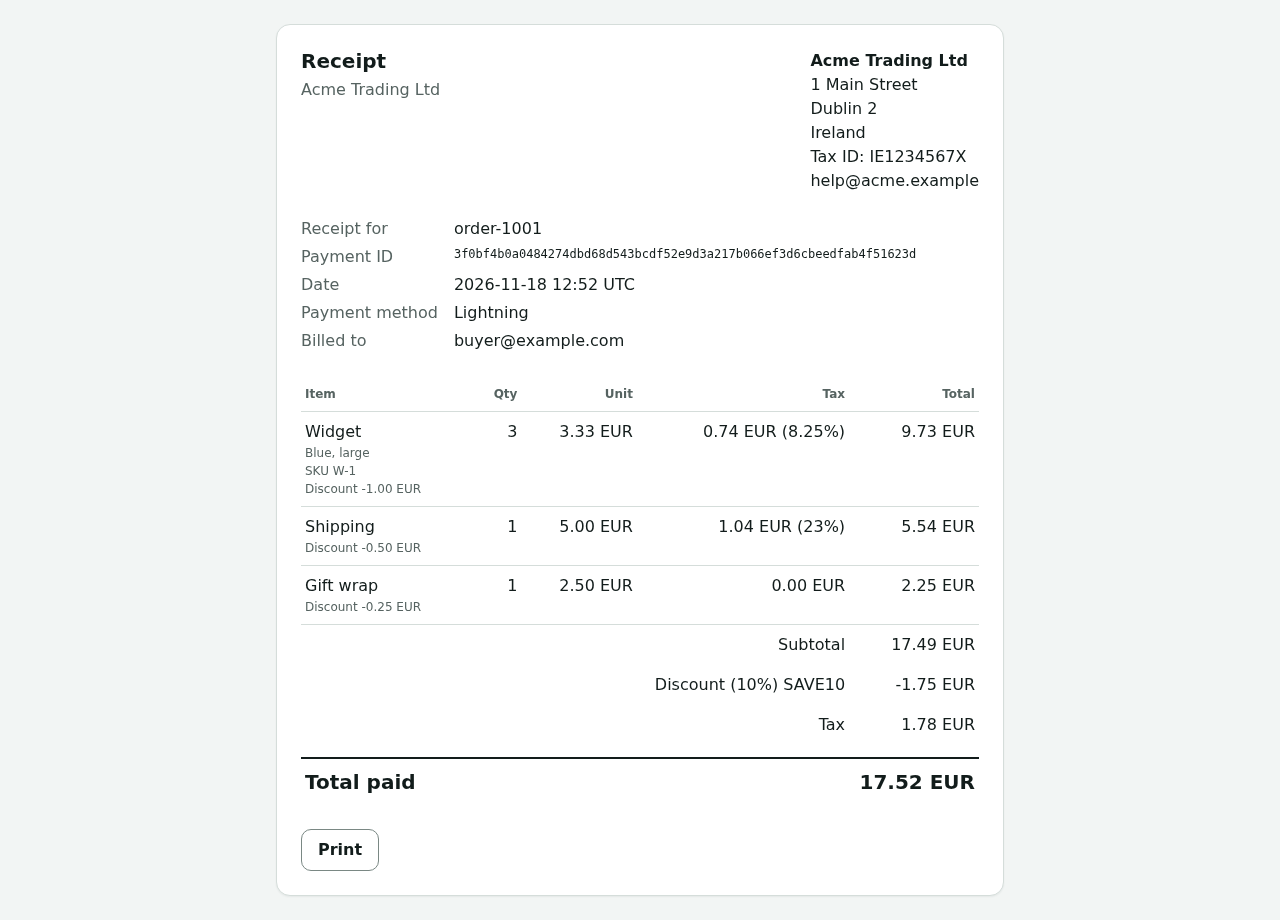
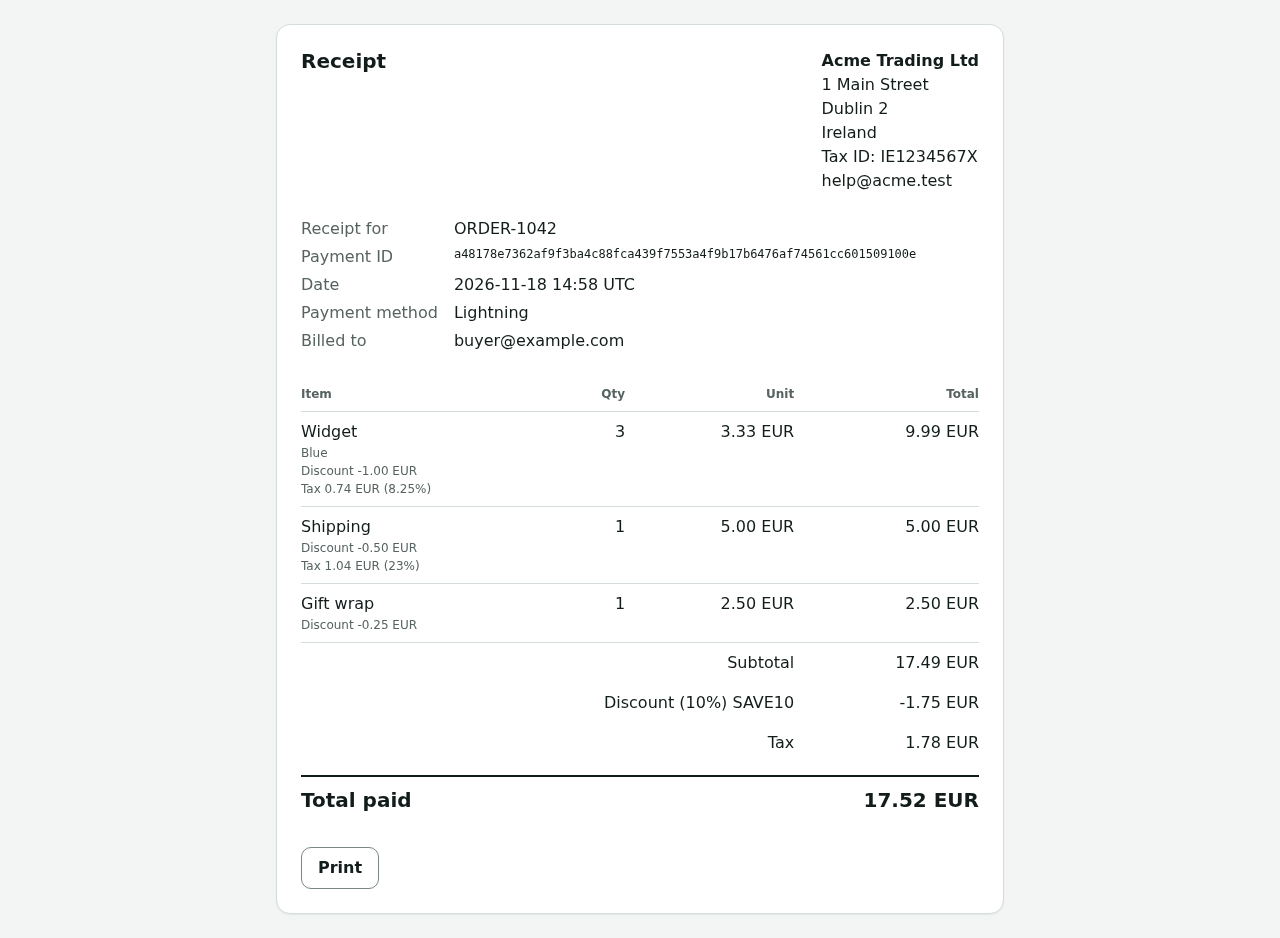
Receipt lines sum to subtotal, full width table, one seller name

diff --git a/web/receipt.css b/web/receipt.css
@@ -12,11 +12,14 @@ dl.meta { display: grid; grid-template-columns: max-content 1fr; gap: var(--spac
 dl.meta dt { color: var(--muted); }
 dl.meta dd { margin: 0; overflow-wrap: anywhere; }
 dl.meta dd.mono { font-family: var(--font-mono); font-size: var(--fs-sm); }
-.scroll { overflow-x: auto; }
+.scroll { overflow-x: auto; width: 100%; }
+.lines { width: 100%; table-layout: auto; }
 table { width: 100%; border-collapse: collapse; margin-bottom: var(--space-3); }
 th, td { text-align: left; padding: var(--space-2) var(--space-1); border-bottom: 1px solid var(--line); vertical-align: top; }
 th { color: var(--muted); font-size: var(--fs-sm); font-weight: 600; }
-th.num, td.num { text-align: right; }
+th.num, td.num { text-align: right; padding-left: var(--space-3); }
+th:first-child, td:first-child { padding-left: 0; }
+th:last-child, td:last-child { padding-right: 0; }
 .money { font-variant-numeric: tabular-nums; white-space: nowrap; }
 tfoot td { border-bottom: 0; }
 tr.total td { font-weight: 700; font-size: var(--fs-lg); border-top: 2px solid var(--text); border-bottom: 0; }
@@ -28,9 +31,11 @@ button:focus-visible { outline: 2px solid var(--focus); outline-offset: 2px; }
   .receipt { padding: var(--space-4); }
   dl.meta { grid-template-columns: 1fr; }
   dl.meta dd { margin-bottom: var(--space-2); }
-  .lines th:nth-child(3), .lines td:nth-child(3), .lines th:nth-child(4), .lines td:nth-child(4) { display: none; }
-  .lines tfoot td:first-child { width: 100%; }
+  th, td { padding-top: var(--space-2); padding-bottom: var(--space-2); }
+  th.num, td.num { padding-left: var(--space-2); }
+  .lines td:first-child, .lines th:first-child { padding-right: var(--space-2); }
 }
+@page { margin: 16mm; }
 @media print {
   :root { color-scheme: light; }
   body { background: #fff; color: black; }

diff --git a/src/api/receipt.rs b/src/api/receipt.rs
@@ -130,7 +130,7 @@ fn row(label: &str, value: &str) -> String {
 
 fn lines_table(b: &Breakdown, currency: &str) -> String {
     let mut out = String::from(
-        "<div class=\"scroll\"><table class=\"lines\"><thead><tr><th>Item</th><th class=\"num\">Qty</th><th class=\"num\">Unit</th><th class=\"num\">Tax</th><th class=\"num\">Total</th></tr></thead><tbody>",
+        "<div class=\"scroll\"><table class=\"lines\"><thead><tr><th>Item</th><th class=\"num\">Qty</th><th class=\"num\">Unit</th><th class=\"num\">Total</th></tr></thead><tbody>",
     );
     for l in &b.lines {
         let mut name = esc(&l.name);
@@ -146,23 +146,25 @@ fn lines_table(b: &Breakdown, currency: &str) -> String {
                 esc(&money(l.discount, currency))
             ));
         }
-        let tax = match l.tax_rate_bps {
-            Some(bps) => format!("{} ({})", money(l.tax, currency), percent(bps)),
-            None => money(l.tax, currency),
-        };
+        if l.tax > 0 {
+            let tax = match l.tax_rate_bps {
+                Some(bps) => format!("Tax {} ({})", money(l.tax, currency), percent(bps)),
+                None => format!("Tax {}", money(l.tax, currency)),
+            };
+            name.push_str(&format!("<span class=\"sub\">{}</span>", esc(&tax)));
+        }
         out.push_str(&format!(
-            "<tr><td>{}</td><td class=\"num money\">{}</td><td class=\"num money\">{}</td><td class=\"num money\">{}</td><td class=\"num money\">{}</td></tr>",
+            "<tr><td>{}</td><td class=\"num money\">{}</td><td class=\"num money\">{}</td><td class=\"num money\">{}</td></tr>",
             name,
             l.quantity,
             esc(&money(l.unit_amount, currency)),
-            esc(&tax),
-            esc(&money(l.total, currency)),
+            esc(&money(l.net, currency)),
         ));
     }
     out.push_str("</tbody><tfoot>");
     let foot = |label: String, value: String| {
         format!(
-            "<tr><td colspan=\"4\" class=\"num\">{}</td><td class=\"num money\">{}</td></tr>",
+            "<tr><td colspan=\"3\" class=\"num\">{}</td><td class=\"num money\">{}</td></tr>",
             esc(&label),
             esc(&value)
         )
@@ -249,9 +251,8 @@ pub fn render(p: &PaymentRow, tenant: &Tenant, method: Option<&str>) -> String {
     };
 
     format!(
-        "<!doctype html><html lang=\"en\"><head><meta charset=\"utf-8\"><meta name=\"viewport\" content=\"width=device-width, initial-scale=1\"><meta name=\"robots\" content=\"noindex\"><title>Receipt {}</title><link rel=\"stylesheet\" href=\"/assets/tokens.css\"><link rel=\"stylesheet\" href=\"/assets/receipt.css\"></head><body><main><div class=\"receipt\"><header><div><h1>Receipt</h1><div class=\"muted\">{}</div></div><div>{}</div></header><dl class=\"meta\">{}</dl>{}<div class=\"actions\"><button type=\"button\" id=\"print\">Print</button></div></div></main><script src=\"/assets/receipt.js\"></script></body></html>",
+        "<!doctype html><html lang=\"en\"><head><meta charset=\"utf-8\"><meta name=\"viewport\" content=\"width=device-width, initial-scale=1\"><meta name=\"robots\" content=\"noindex\"><title>Receipt {}</title><link rel=\"stylesheet\" href=\"/assets/tokens.css\"><link rel=\"stylesheet\" href=\"/assets/receipt.css\"></head><body><main><div class=\"receipt\"><header><div><h1>Receipt</h1></div><div>{}</div></header><dl class=\"meta\">{}</dl>{}<div class=\"actions\"><button type=\"button\" id=\"print\">Print</button></div></div></main><script src=\"/assets/receipt.js\"></script></body></html>",
         esc(&p.reference),
-        esc(&seller),
         seller_html,
         meta,
         body

diff --git a/tests/line_items.rs b/tests/line_items.rs
@@ -619,3 +619,82 @@ async fn openapi_documents_line_items_and_the_payment_view() {
         .ends_with("/Payment"));
     assert!(r.json["paths"].get("/receipt/{id}").is_none());
 }
+
+fn cents(text: &str) -> i64 {
+    let n = text.trim().trim_end_matches(" EUR").replace(',', "");
+    let (sign, n) = match n.strip_prefix('-') {
+        Some(rest) => (-1, rest.to_string()),
+        None => (1, n),
+    };
+    let (whole, frac) = n.split_once('.').unwrap();
+    sign * (whole.parse::<i64>().unwrap() * 100 + frac.parse::<i64>().unwrap())
+}
+
+fn last_cells(html: &str, from: &str, to: &str) -> Vec<String> {
+    let start = html.find(from).unwrap();
+    let section = &html[start..start + html[start..].find(to).unwrap()];
+    section
+        .split("<tr>")
+        .skip(1)
+        .map(|row| {
+            let cell = row.rsplit("<td class=\"num money\">").next().unwrap();
+            cell.split("</td>").next().unwrap().to_string()
+        })
+        .collect()
+}
+
+#[tokio::test]
+async fn receipt_line_totals_sum_to_the_subtotal() {
+    let h = harness().await;
+    let t = tenant(&h).await;
+    let fixture = json!({
+        "reference": "rcpt-sum",
+        "currency": "EUR",
+        "line_items": [
+            {"name": "Widget", "quantity": 3, "unit_amount": 333, "tax_rate": 8.25},
+            {"name": "Shipping", "unit_amount": 500, "tax_rate": 23},
+            {"name": "Gift wrap", "unit_amount": 250}
+        ],
+        "discount": {"percent": 10, "code": "SAVE10"}
+    });
+    let id = paid_payment(&h, &t, fixture).await;
+    let r = send(
+        &h.app,
+        "GET",
+        &format!("/receipt/{id}"),
+        None,
+        &[],
+        Value::Null,
+    )
+    .await;
+    let lines = last_cells(&r.text, "<tbody>", "</tbody>");
+    assert_eq!(lines.len(), 3);
+    let sum: i64 = lines.iter().map(|c| cents(c)).sum();
+    let foot = last_cells(&r.text, "<tfoot>", "</tfoot>");
+    assert_eq!(cents(&foot[0]), 1749, "{foot:?}");
+    assert_eq!(sum, cents(&foot[0]), "{lines:?} {foot:?}");
+    assert_eq!(cents(&foot[1]), -175);
+    assert_eq!(cents(&foot[2]), 178);
+    assert_eq!(cents(&foot[0]) + cents(&foot[1]) + cents(&foot[2]), 1752);
+}
+
+#[tokio::test]
+async fn receipt_names_the_seller_once_and_fills_the_card_width() {
+    let h = harness().await;
+    let t = tenant(&h).await;
+    set_seller(&h, &t).await;
+    let id = paid_payment(&h, &t, body("rcpt-once")).await;
+    let r = send(
+        &h.app,
+        "GET",
+        &format!("/receipt/{id}"),
+        None,
+        &[],
+        Value::Null,
+    )
+    .await;
+    assert_eq!(r.text.matches("Acme &lt;b&gt;Ltd&lt;/b&gt;").count(), 1);
+    let css = send(&h.app, "GET", "/assets/receipt.css", None, &[], Value::Null).await;
+    assert!(css.text.contains(".lines { width: 100%"));
+    assert!(!css.text.contains("nth-child"));
+}
